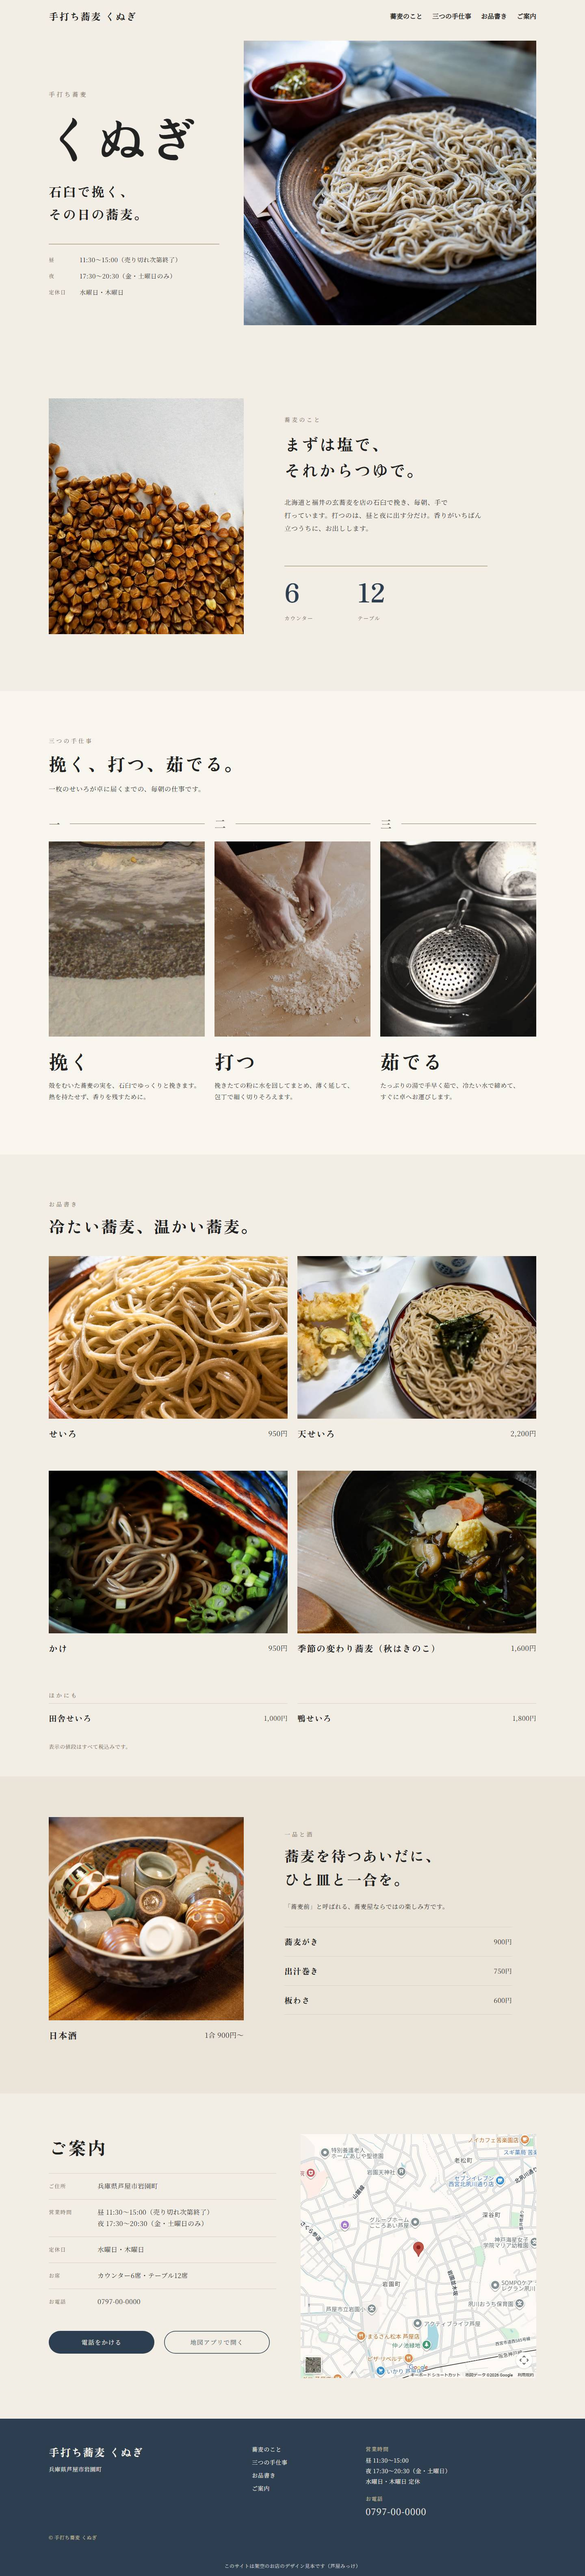
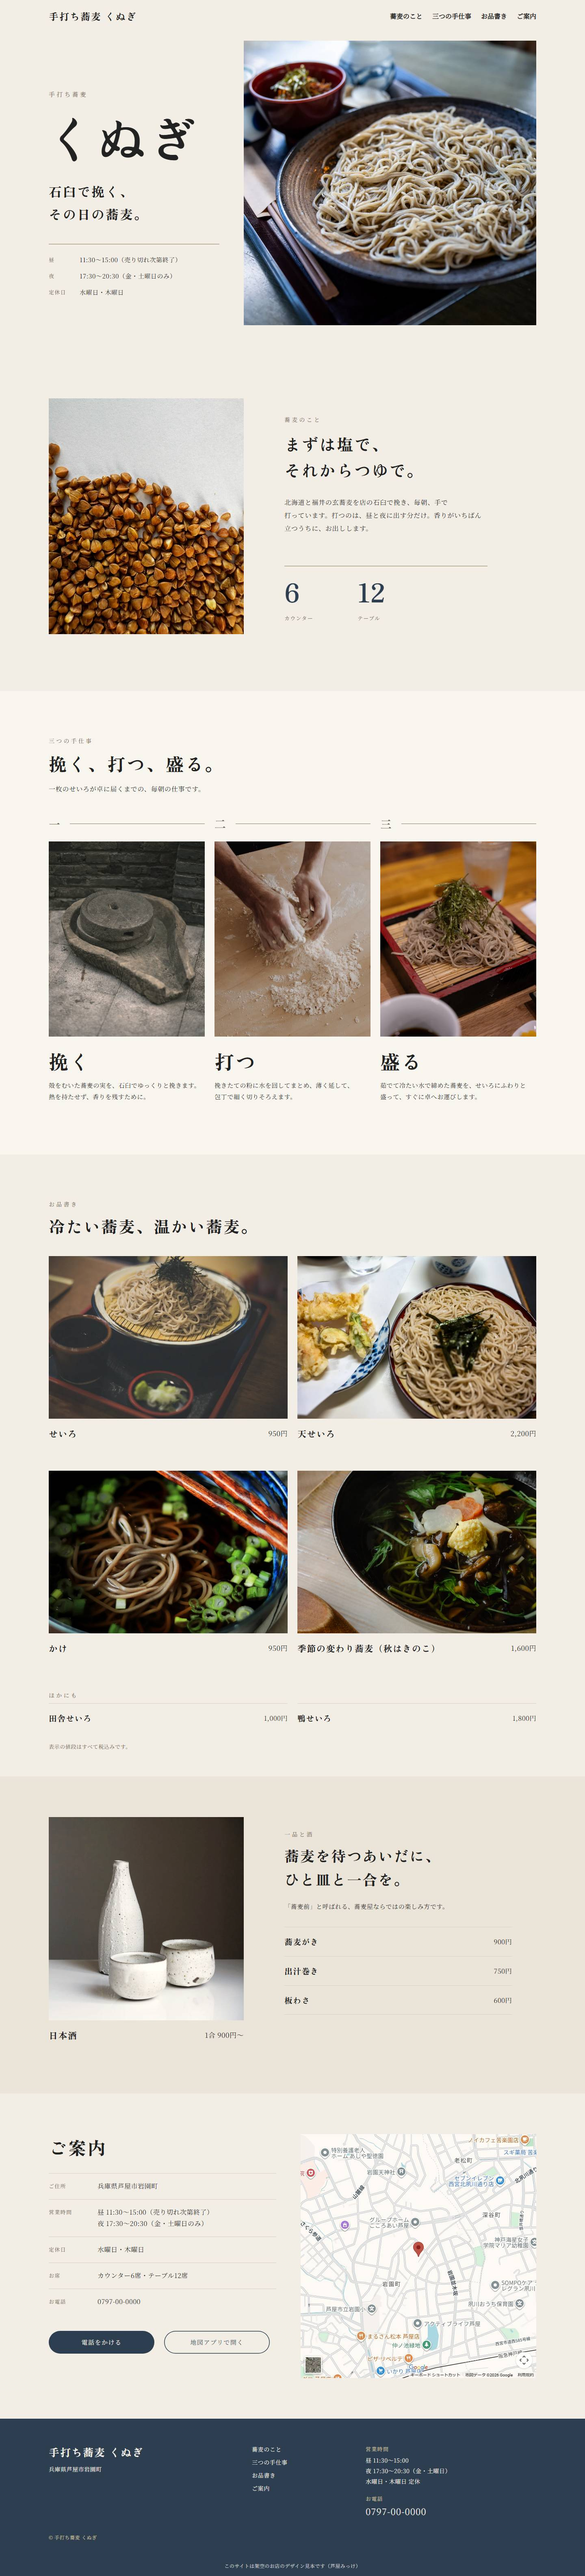
ギャラリー：手打ち蕎麦 くぬぎ の写真を直す（G042・wa-16）
- お品書き せいろ sr：j9SSv1QK74Y → C2oA6RBxiJA（丸いせいろの灰色の蕎麦、つゆと薬味）
- 工程の三つ目 s3：dgAHenVGfuA（湯切りざる）→ R6U1j6lzafY（せいろに盛った蕎麦）。
  茹でる写真が無いため工程を「盛る」に変え、見出し「挽く、打つ、盛る。」と文を合わせた
- 工程「挽く」s1：9I_d5t0dwrc（水車の石臼）→ EGp_5wloSNY（上石を重ねた古い石臼）
- 一品と酒 sk：lt7vhcc-Sjo（ぐい呑みの鉢）→ NLcLjLNUJbY（白い徳利と猪口）
- トーン：石臼と徳利に wa16-finish で淡いセピアを掛けた。写真台帳に 4 件追記、点検画像を撮り直し

Claude-Session: https://claude.ai/code/session_016LALj5VuzPyysm2EBxPU54

diff --git a/templates/wa-16/SPEC.md b/templates/wa-16/SPEC.md
@@ -47,7 +47,7 @@ G030「手打ち蕎麦 くぬぎ」（架空の手打ち蕎麦店）の型。実
 `terms.md` のとおり。
 
 ## 6. 新規設計した段
-- **三つの手仕事（見せ場）**：参考の写真の格子の「同じ大きさの写真を等間隔に並べる」性格だけを借り、工程の番号（一・二・三）と次の列までつながる線で「挽く → 打つ → 茹でる」の流れを見せる。PC・タブレットは横に三列、スマホは写真 140×200 と文を横に並べた三段
+- **三つの手仕事（見せ場）**：参考の写真の格子の「同じ大きさの写真を等間隔に並べる」性格だけを借り、工程の番号（一・二・三）と次の列までつながる線で「挽く → 打つ → 盛る」の流れ（G042 で三つ目を「茹でる」から「盛る」に変えた）を見せる。PC・タブレットは横に三列、スマホは写真 140×200 と文を横に並べた三段
 - **一品と酒**：日本酒の写真を品のデータに結びつけ（repeater）、写真の無い一品 3 つを行で出す。写真つき 4＋行 2＋酒 1＋行 3 で全 10 品を重複なく出す
 
 ## 7. 写真の枠
@@ -55,11 +55,11 @@ G030「手打ち蕎麦 くぬぎ」（架空の手打ち蕎麦店）の型。実
 |---|---|---|
 | fv | 最初の画面 | 黒い器に盛った蕎麦（盆・薬味・つゆ） |
 | ab | 蕎麦のこと | 殻をむいた蕎麦の実 |
-| s1・s2・s3 | 三つの手仕事 | 粉が積もった石臼／粉と水をまとめる手／釜に掛けた湯切りざる |
-| sr・tn・kk・kw | お品書き | せいろ／天せいろ／かけ／季節の変わり蕎麦（きのこ） |
-| sk | 一品と酒 | 鉢に集めたぐい呑み（日本酒に結びつける） |
+| s1・s2・s3 | 三つの手仕事 | 上石を重ねた古い石臼／粉と水をまとめる手／せいろに盛った蕎麦 |
+| sr・tn・kk・kw | お品書き | 丸いせいろの蕎麦とつゆ・薬味／天せいろ／かけ／季節の変わり蕎麦（きのこ） |
+| sk | 一品と酒 | 白い徳利と猪口（日本酒に結びつける） |
 
-石臼（s1）は元の写真の上に穀物の入った木の枠が写るので、`rect` で石の面と粉だけを切り出した。湯切りざる（s3）はほかの写真より暗く冷たいので、CSS で `sepia(.28) brightness(1.1)` をかけて寄せた。
+G042（相談役の点検）で sr・s3・s1・sk を替えた（黄色い縮れ麺・ラーメンの湯切りざる・分かりにくい水車の石臼・しまってある器に見えるぐい呑み → 蕎麦屋の写真に）。石臼（s1）は灰色で冷たいので CSS で `sepia(.3) brightness(1.08)`、徳利（sk）は `sepia(.18)` をかけて生成りの面に寄せた（`wa16-finish`）。
 
 ## 8. 開いた切り抜きと理由
 参考の PC の全体像（縮小 360px）だけ。段の並びと写真の格子の位置を確かめるため。
